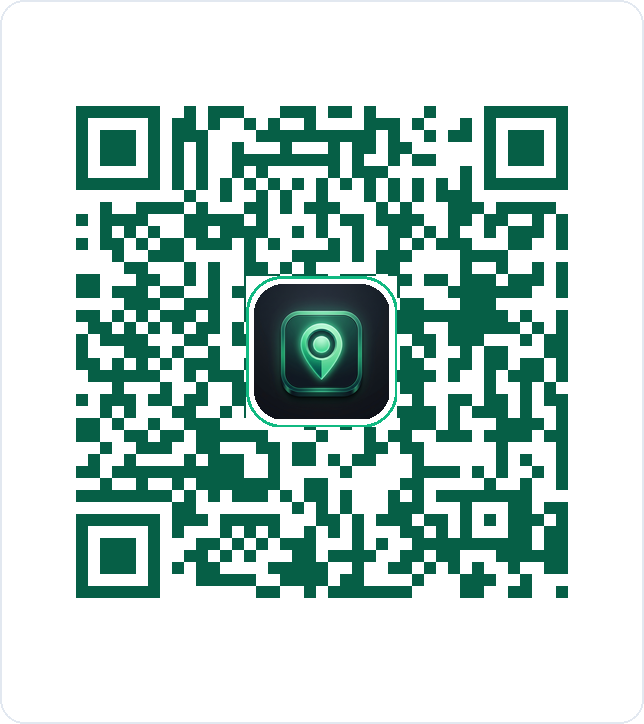
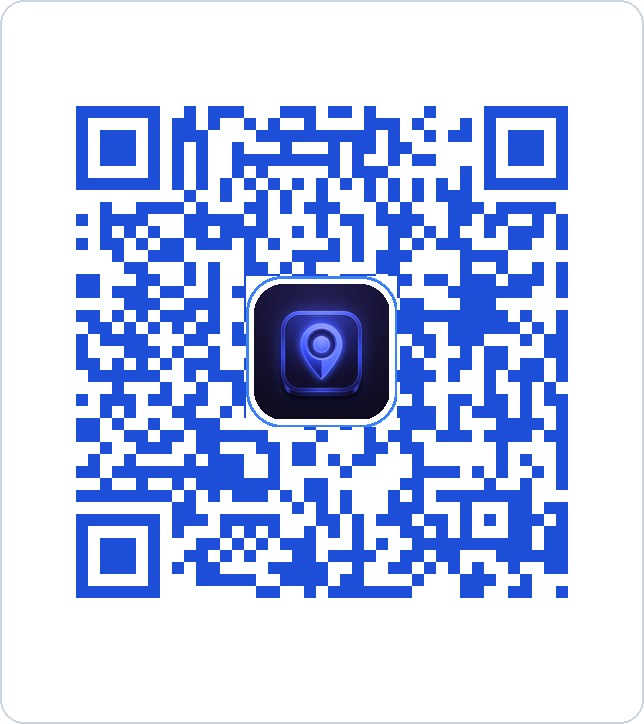
Update mobile app QR code scanner color to royal blue

Changed region(s): [[0.0932, 0.1215, 0.9006, 0.8508]]

diff --git a/scripts/generate_qr_code.py b/scripts/generate_qr_code.py
@@ -1,13 +1,13 @@
 import os
 import qrcode
 from PIL import Image, ImageDraw
+import numpy as np
 
 BASE_DIR = r"E:\my project\address"
 DOWNLOAD_URL = "https://addresshubmanagement.netlify.app/download"
 LOGO_SRC = os.path.join(BASE_DIR, r"public\app-logo.png")
 OUTPUT_QR = os.path.join(BASE_DIR, r"public\app-qr-code.png")
-ARTIFACT_DIR = r"C:\Users\se6po\.gemini\antigravity-ide\brain\2eb7d510-9553-4d60-abbc-c81ec0778b14"
-ARTIFACT_QR = os.path.join(ARTIFACT_DIR, "address_hub_qr_code.png")
+OUTPUT_ROOT = os.path.join(BASE_DIR, r"address_hub_qr_code.png")
 
 # Create QR Code with high error correction so we can embed logo in center
 qr = qrcode.QRCode(
@@ -19,34 +19,45 @@ qr = qrcode.QRCode(
 qr.add_data(DOWNLOAD_URL)
 qr.make(fit=True)
 
-# Generate image with custom colors (dark emerald green on white)
+# Generate image with custom royal blue color scheme
+BLUE_FILL = "#1d4ed8"    # Royal blue
+ACCENT_BLUE = "#3b82f6"  # Sky blue accent
+
 qr_img = qr.make_image(
-    fill_color="#065f46",  # Deep emerald green
+    fill_color=BLUE_FILL,
     back_color="#ffffff"
 ).convert("RGBA")
 
-# Load logo and resize for center embedding
+qr_w, qr_h = qr_img.size
+
+# Load logo and transform to matching blue
 if os.path.exists(LOGO_SRC):
     logo = Image.open(LOGO_SRC).convert("RGBA")
+    arr = np.array(logo, dtype=np.float32)
+    r, g, b, a = arr[:, :, 0], arr[:, :, 1], arr[:, :, 2], arr[:, :, 3]
+    new_r = np.clip(r * 0.3 + b * 0.4, 0, 255)
+    new_g = np.clip(g * 0.4 + r * 0.3, 0, 255)
+    new_b = np.clip(g * 1.1 + b * 0.5, 0, 255)
+    blue_logo_arr = np.stack([new_r, new_g, new_b, a], axis=-1).astype(np.uint8)
+    blue_logo = Image.fromarray(blue_logo_arr, mode="RGBA")
     
     # Logo size should be ~24% of QR code width
-    qr_w, qr_h = qr_img.size
     logo_size = int(qr_w * 0.24)
-    logo = logo.resize((logo_size, logo_size), Image.Resampling.LANCZOS)
+    blue_logo = blue_logo.resize((logo_size, logo_size), Image.Resampling.LANCZOS)
     
     # Create circular or rounded mask for the center logo
     mask = Image.new("L", (logo_size, logo_size), 0)
     draw_mask = ImageDraw.Draw(mask)
     draw_mask.rounded_rectangle([(0, 0), (logo_size, logo_size)], radius=int(logo_size * 0.22), fill=255)
     
-    # White background badge with border for center logo
+    # White background badge with blue border for center logo
     badge_size = logo_size + 16
     badge = Image.new("RGBA", (badge_size, badge_size), (255, 255, 255, 255))
     draw_badge = ImageDraw.Draw(badge)
-    draw_badge.rounded_rectangle([(0, 0), (badge_size, badge_size)], radius=int(badge_size * 0.24), fill="#ffffff", outline="#10b981", width=3)
+    draw_badge.rounded_rectangle([(0, 0), (badge_size, badge_size)], radius=int(badge_size * 0.24), fill="#ffffff", outline=ACCENT_BLUE, width=3)
     
     # Paste logo onto badge
-    badge.paste(logo, (8, 8), mask)
+    badge.paste(blue_logo, (8, 8), mask)
     
     # Paste badge onto center of QR code
     pos = ((qr_w - badge_size) // 2, (qr_h - badge_size) // 2)
@@ -64,14 +75,14 @@ card = Image.new("RGBA", (card_w, card_h), "#ffffff")
 draw_card = ImageDraw.Draw(card)
 
 # Draw subtle outer border
-draw_card.rounded_rectangle([(0, 0), (card_w - 1, card_h - 1)], radius=24, outline="#e2e8f0", width=2)
+draw_card.rounded_rectangle([(0, 0), (card_w - 1, card_h - 1)], radius=24, outline="#cbd5e1", width=2)
 
 # Paste QR image
 card.paste(qr_img, (card_padding_x, card_padding_top), qr_img)
 
-# Save to public and artifact directories
+# Save to public and root
 card.save(OUTPUT_QR, "PNG")
-card.save(ARTIFACT_QR, "PNG")
+card.save(OUTPUT_ROOT, "PNG")
 
-print("Created branded QR code at:", OUTPUT_QR)
-print("Created artifact QR code at:", ARTIFACT_QR)
+print("Created blue branded QR code at:", OUTPUT_QR)
+print("Created root QR code at:", OUTPUT_ROOT)
